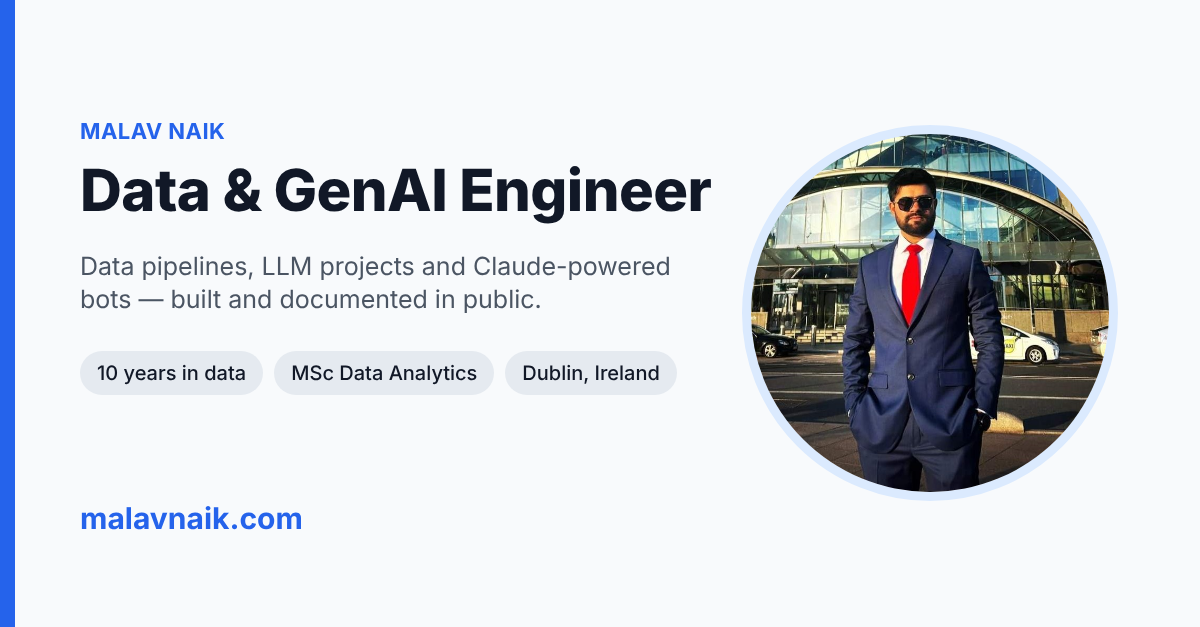
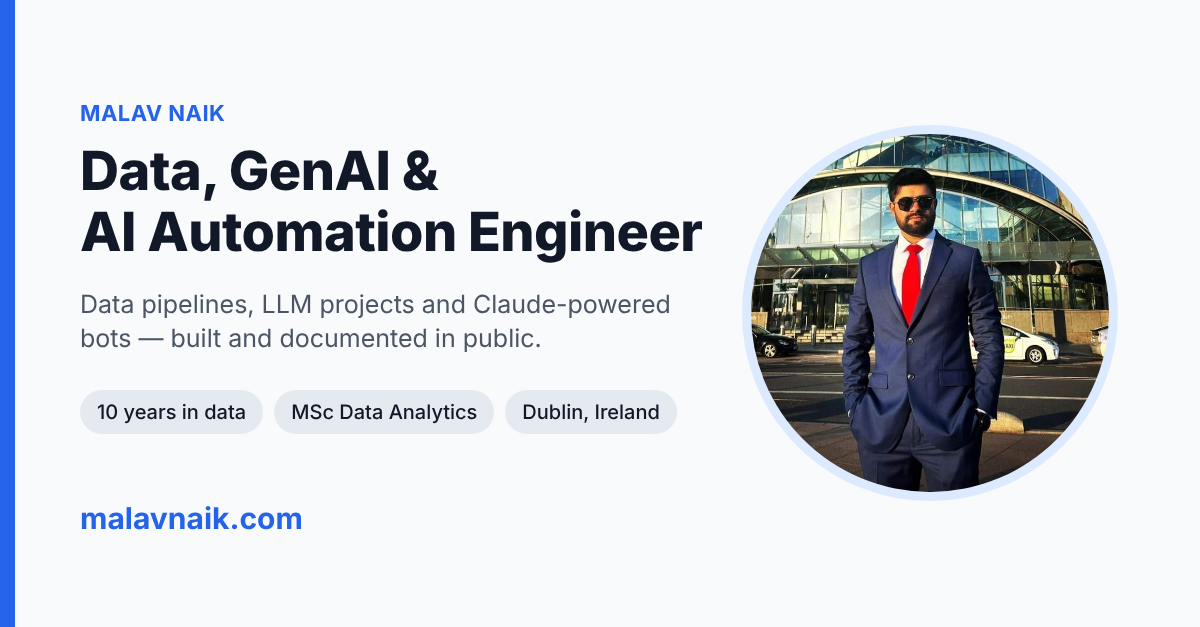
SEO: title is 'Data, GenAI & AI Automation Engineer'
Claude-Session: https://claude.ai/code/session_01JaFb19FgT5f3XxTcPeNVLy

diff --git a/permits-2025/index.html b/permits-2025/index.html
@@ -3,14 +3,14 @@
 <head>
     <meta charset="UTF-8">
     <meta name="viewport" content="width=device-width, initial-scale=1.0">
-    <title>Employment Permits 2025 Dashboard, Ireland | Malav Naik | Data &amp; GenAI Engineer</title>
+    <title>Employment Permits 2025 Dashboard, Ireland | Malav Naik | Data, GenAI &amp; AI Automation Engineer</title>
     <meta name="author" content="Malav Naik">
-    <meta name="description" content="Explore employment permits issued to companies in Ireland in 2025 by sector, employer and month. Built by Malav Naik, Data &amp; GenAI Engineer in Dublin.">
+    <meta name="description" content="Explore employment permits issued to companies in Ireland in 2025 by sector, employer and month. Built by Malav Naik, Data, GenAI &amp; AI Automation Engineer in Dublin.">
     <link rel="canonical" href="https://malavnaik.com/permits-2025/">
     <meta property="og:type" content="website">
-    <meta property="og:site_name" content="Malav Naik | Data &amp; GenAI Engineer">
+    <meta property="og:site_name" content="Malav Naik | Data, GenAI &amp; AI Automation Engineer">
     <meta property="og:title" content="Employment Permits 2025 Dashboard, Ireland">
-    <meta property="og:description" content="Explore employment permits issued to companies in Ireland in 2025 by sector, employer and month. Built by Malav Naik, Data &amp; GenAI Engineer in Dublin.">
+    <meta property="og:description" content="Explore employment permits issued to companies in Ireland in 2025 by sector, employer and month. Built by Malav Naik, Data, GenAI &amp; AI Automation Engineer in Dublin.">
     <meta property="og:url" content="https://malavnaik.com/permits-2025/">
     <meta property="og:image" content="https://malavnaik.com/images/og-banner.png">
     <meta name="twitter:card" content="summary_large_image">

diff --git a/resume/index.html b/resume/index.html
@@ -1,7 +1,7 @@
 ---
 layout: default
 title: Résumé
-description: Résumé of Malav Naik, Data & GenAI Engineer in Dublin, Ireland: experience, education, skills and projects.
+description: Résumé of Malav Naik, Data, GenAI & AI Automation Engineer in Dublin, Ireland: experience, education, skills and projects.
 ---
 {%- comment -%}
 Irish CV layout. Experience/Education come from _data/journey.yml, projects from the _projects collection (same order as /work/)

diff --git a/_projects/moderation-classifier.md b/_projects/moderation-classifier.md
@@ -4,7 +4,7 @@ summary: "A toxicity classifier trained on 1.8 million public comments, with rev
 problem: "A single accuracy number can't say where to draw the line, how much lands on human reviewers, or whether a model is fair."
 approach: "Trained a TF-IDF baseline and DistilBERT on 1.8 million public comments, set two threshold policies, simulated a review queue and checked false-positive rates by identity group."
 result: "ROC-AUC 0.957; 36.6% of toxic comments auto-actioned at ≥ 90% precision; harmless comments wrongly flagged cut from 12.8% to 9.6%."
-description: "A DistilBERT content moderation classifier by Data & GenAI Engineer Malav Naik on Civil Comments, with threshold policies, a review queue and fairness checks."
+description: "A DistilBERT content moderation classifier by Data, GenAI & AI Automation Engineer Malav Naik on Civil Comments, with threshold policies, a review queue and fairness checks."
 order: 1
 featured: true
 sandbox: moderation

diff --git a/_projects/skillbot.md b/_projects/skillbot.md
@@ -4,7 +4,7 @@ summary: "My MSc project on personalised learning with large language models and
 problem: "Job ads and course catalogues live apart, so \"what do I need to learn for this job?\" is usually guesswork."
 approach: "MSc research on an LLM plus a knowledge graph, and a free in-browser rebuild that matches a job title to similar public job ads."
 result: "About 5 of 10 suggested skills appear in the real ad, in a leave-one-out test on 1,167 ads (48%)."
-description: "SkillBot by Data & GenAI Engineer Malav Naik: MSc research combining an LLM and a knowledge graph for skill recommendations, plus an in-browser skills explorer."
+description: "SkillBot by Data, GenAI & AI Automation Engineer Malav Naik: MSc research combining an LLM and a knowledge graph for skill recommendations, plus an in-browser skills explorer."
 order: 4
 featured: true
 code_url: https://github.com/malavnaik99/SkillBot-AI-Driven-Personalized-Learning-Platform

diff --git a/_projects/dublin-bikes-pipeline.md b/_projects/dublin-bikes-pipeline.md
@@ -4,7 +4,7 @@ summary: "Collects every Dublinbikes station every 15 minutes, models it with db
 problem: "The Dublinbikes feed only shows right now; questions about weather and time of day need history that can be trusted."
 approach: "A collector every 15 minutes, then a daily dbt + DuckDB run into an incremental star schema with 14 automatic data tests and Telegram alerts."
 result: "Every station, every 15 minutes, modelled and tested into a live dashboard and public dataset, for €0."
-description: "A data pipeline by Data & GenAI Engineer Malav Naik: a Python collector, a dbt + DuckDB star schema with freshness and volume tests, and a live Dublinbikes dashboard."
+description: "A data pipeline by Data, GenAI & AI Automation Engineer Malav Naik: a Python collector, a dbt + DuckDB star schema with freshness and volume tests, and a live Dublinbikes dashboard."
 order: 2
 featured: true
 sandbox: sql

diff --git a/_projects/ask-the-dsa.md b/_projects/ask-the-dsa.md
@@ -4,7 +4,7 @@ summary: "Type a question in plain English and get the articles of the EU Digita
 problem: "People ask about the EU Digital Services Act in everyday words, while the law uses its own terms across 93 articles."
 approach: "Split the official text into 482 chunks and compared keyword, semantic and hybrid search on 25 hand-written questions; the demo quotes the law only."
 result: "The right article is in the top 3 for 84% of test questions (72% in the free browser version)."
-description: "Semantic search over the EU Digital Services Act by Data & GenAI Engineer Malav Naik: keyword, semantic and hybrid search compared on 25 hand-written test questions."
+description: "Semantic search over the EU Digital Services Act by Data, GenAI & AI Automation Engineer Malav Naik: keyword, semantic and hybrid search compared on 25 hand-written test questions."
 order: 3
 featured: true
 sandbox: dsa

diff --git a/_projects/permits-2025.md b/_projects/permits-2025.md
@@ -4,7 +4,7 @@ summary: "Which Irish sectors and employers sponsor work permits, and when – a
 problem: "International students in Ireland rarely know which employers sponsor work permits, or when hiring peaks."
 approach: "Cleaned the official 2025 permits dataset, grouped companies into sectors and built a single-page Chart.js dashboard."
 result: "A searchable, serverless dashboard of permits by sector, month and employer."
-description: "An interactive dashboard by Data & GenAI Engineer Malav Naik analysing employment permits issued to companies in Ireland in 2025: sectors, top employers and monthly demand."
+description: "An interactive dashboard by Data, GenAI & AI Automation Engineer Malav Naik analysing employment permits issued to companies in Ireland in 2025: sectors, top employers and monthly demand."
 order: 8
 featured: true
 demo_url: /permits-2025/

diff --git a/_projects/irish-rents.md b/_projects/irish-rents.md
@@ -4,7 +4,7 @@ summary: "The official average rent of new tenancies in every Irish county, town
 problem: "Ireland's official rent table has 674,352 rows, codes repeated as labels and 70% empty cells."
 approach: "A reproducible Python cleaning pipeline with a Kaggle notebook that rebuilds the data from the official source."
 result: "201,912 rents for 437 places, 2008–2025, published on Kaggle and Hugging Face."
-description: "A cleaned open dataset of RTB average rents from the CSO, 2008–2025, by Data & GenAI Engineer Malav Naik, with a reproducible cleaning notebook."
+description: "A cleaned open dataset of RTB average rents from the CSO, 2008–2025, by Data, GenAI & AI Automation Engineer Malav Naik, with a reproducible cleaning notebook."
 order: 5
 featured: true
 code_url: https://github.com/malavnaik99/irish-rents-dataset

diff --git a/_projects/blog-automation-bot.md b/_projects/blog-automation-bot.md
@@ -4,7 +4,7 @@ summary: "Writes nothing until I approve on Telegram, then publishes each post t
 problem: "Cross-posting by hand to four sites is slow, but nothing should go public under my name without me seeing it first."
 approach: "A Python bot on GitHub Actions that previews each post on Telegram and publishes only after one tap."
 result: "Posts go to the blog, DEV and LinkedIn in about a minute of my time, on GitHub's free tier."
-description: "A Python bot by Data & GenAI Engineer Malav Naik that previews blog posts on Telegram and, after approval, publishes them to the blog, DEV and LinkedIn."
+description: "A Python bot by Data, GenAI & AI Automation Engineer Malav Naik that previews blog posts on Telegram and, after approval, publishes them to the blog, DEV and LinkedIn."
 order: 6
 featured: true
 sandbox: automation

diff --git a/about.md b/about.md
@@ -2,11 +2,11 @@
 layout: default
 title: About
 permalink: /about/
-description: "About Malav Naik, a Data & GenAI Engineer in Dublin: 10 years in data across India and Ireland, MSc in Data Analytics from National College of Ireland."
+description: "About Malav Naik, a Data, GenAI & AI Automation Engineer in Dublin: 10 years in data across India and Ireland, MSc in Data Analytics from National College of Ireland."
 ---
 # About Malav Naik
 
-I'm Malav Naik, a Data & GenAI Engineer based in Dublin with about 10 years of experience across India and Ireland.
+I'm Malav Naik, a Data, GenAI & AI Automation Engineer based in Dublin with about 10 years of experience across India and Ireland.
 
 ## My story
 

diff --git a/work/index.md b/work/index.md
@@ -4,7 +4,7 @@ title: Work
 permalink: /work/
 redirect_from: /projects/
 wide: true
-description: Projects by Malav Naik, Data & GenAI Engineer: data engineering, GenAI and AI automation, each with the problem, approach, measured result, stack and code.
+description: Projects by Malav Naik, Data, GenAI & AI Automation Engineer: data engineering, GenAI and AI automation, each with the problem, approach, measured result, stack and code.
 ---
 <p class="label">Work</p>
 <h1>Projects, with the numbers to back them</h1>
